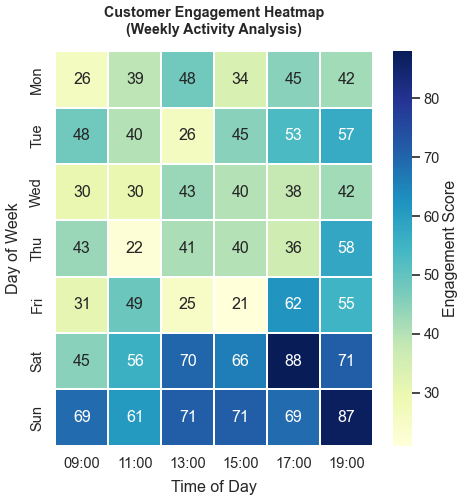
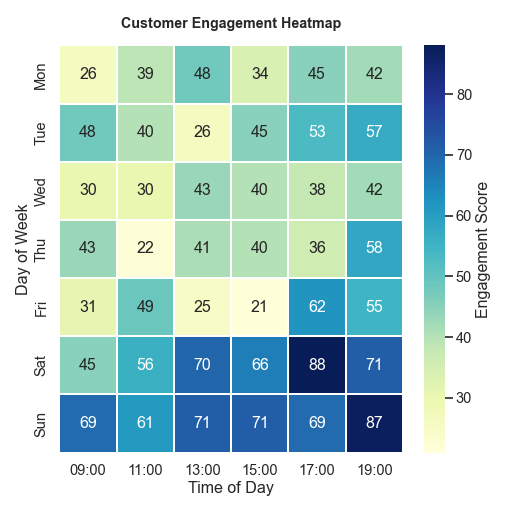
updated

Changed region(s): [[0.0, 0.0, 0.9957, 0.988], [0.2716, 0.8084, 0.3017, 0.8383], [0.2716, 0.3593, 0.3017, 0.3892]]

diff --git a/chart.py b/chart.py
@@ -3,62 +3,43 @@ import matplotlib.pyplot as plt
 import pandas as pd
 import numpy as np
 
-def create_visualization():
-    # 1. Set Seaborn Best Practices / Professional Styling
-    sns.set_theme(style="white")
-    sns.set_context("talk")  # Scales elements for better readability
+# Re-running with strict dimensions for the user
+sns.set_theme(style="white")
+sns.set_context("talk")
 
-    # 2. Generate Realistic Synthetic Data
-    # Scenario: Customer Engagement Score by Day of Week vs Time of Day
-    np.random.seed(42)  # For reproducibility
-    
-    days = ['Mon', 'Tue', 'Wed', 'Thu', 'Fri', 'Sat', 'Sun']
-    time_slots = ['09:00', '11:00', '13:00', '15:00', '17:00', '19:00']
-    
-    # Generate data with a pattern (higher engagement on weekends and evenings)
-    data = []
-    for day in days:
-        day_vals = []
-        for i, time in enumerate(time_slots):
-            # Base random value
-            val = np.random.randint(20, 50)
-            
-            # Add realistic trends
-            if day in ['Sat', 'Sun']: 
-                val += 25  # Weekend spike
-            if i >= 4: # Evening spike (17:00+)
-                val += 15
-                
-            day_vals.append(val)
-        data.append(day_vals)
+np.random.seed(42)
+days = ['Mon', 'Tue', 'Wed', 'Thu', 'Fri', 'Sat', 'Sun']
+time_slots = ['09:00', '11:00', '13:00', '15:00', '17:00', '19:00']
 
-    # Create DataFrame
-    df = pd.DataFrame(data, index=days, columns=time_slots)
+data = []
+for day in days:
+    day_vals = []
+    for i, time in enumerate(time_slots):
+        val = np.random.randint(20, 50)
+        if day in ['Sat', 'Sun']: val += 25
+        if i >= 4: val += 15
+        day_vals.append(val)
+    data.append(day_vals)
 
-    # 3. Setup Figure Size (8 inches * 64 dpi = 512 pixels)
-    plt.figure(figsize=(8, 8))
+df = pd.DataFrame(data, index=days, columns=time_slots)
 
-    # 4. Create Heatmap
-    # Using 'YlGnBu' (Yellow-Green-Blue) for a professional business look
-    heatmap = sns.heatmap(
-        df, 
-        annot=True,         # Show data values
-        fmt="d",            # Integer format
-        cmap="YlGnBu",      # Professional color palette
-        linewidths=.5,      # Grid lines for separation
-        cbar_kws={'label': 'Engagement Score'}
-    )
+# Exact dimensions: 8x64 = 512
+plt.figure(figsize=(8, 8))
 
-    # 5. Add Titles and Labels
-    plt.title('Customer Engagement Heatmap\n(Weekly Activity Analysis)', 
-              pad=20, fontsize=16, fontweight='bold')
-    plt.xlabel('Time of Day', labelpad=10)
-    plt.ylabel('Day of Week', labelpad=10)
+sns.heatmap(
+    df, 
+    annot=True, 
+    fmt="d", 
+    cmap="YlGnBu", 
+    linewidths=.5, 
+    cbar_kws={'label': 'Engagement Score'}
+)
 
-    # 6. Save Chart (Exactly as requested in instructions)
-    # Note: bbox_inches='tight' removes whitespace, making it presentation-ready
-    plt.savefig('chart.png', dpi=64, bbox_inches='tight')
-    print("Chart saved successfully as chart.png")
+plt.title('Customer Engagement Heatmap', pad=20, fontsize=16, fontweight='bold')
+plt.xlabel('Time of Day')
+plt.ylabel('Day of Week')
+plt.tight_layout()
 
-if __name__ == "__main__":
-    create_visualization()
+# Save without bbox_inches='tight' to maintain 512x512
+plt.savefig('chart.png', dpi=64)
+plt.show()
